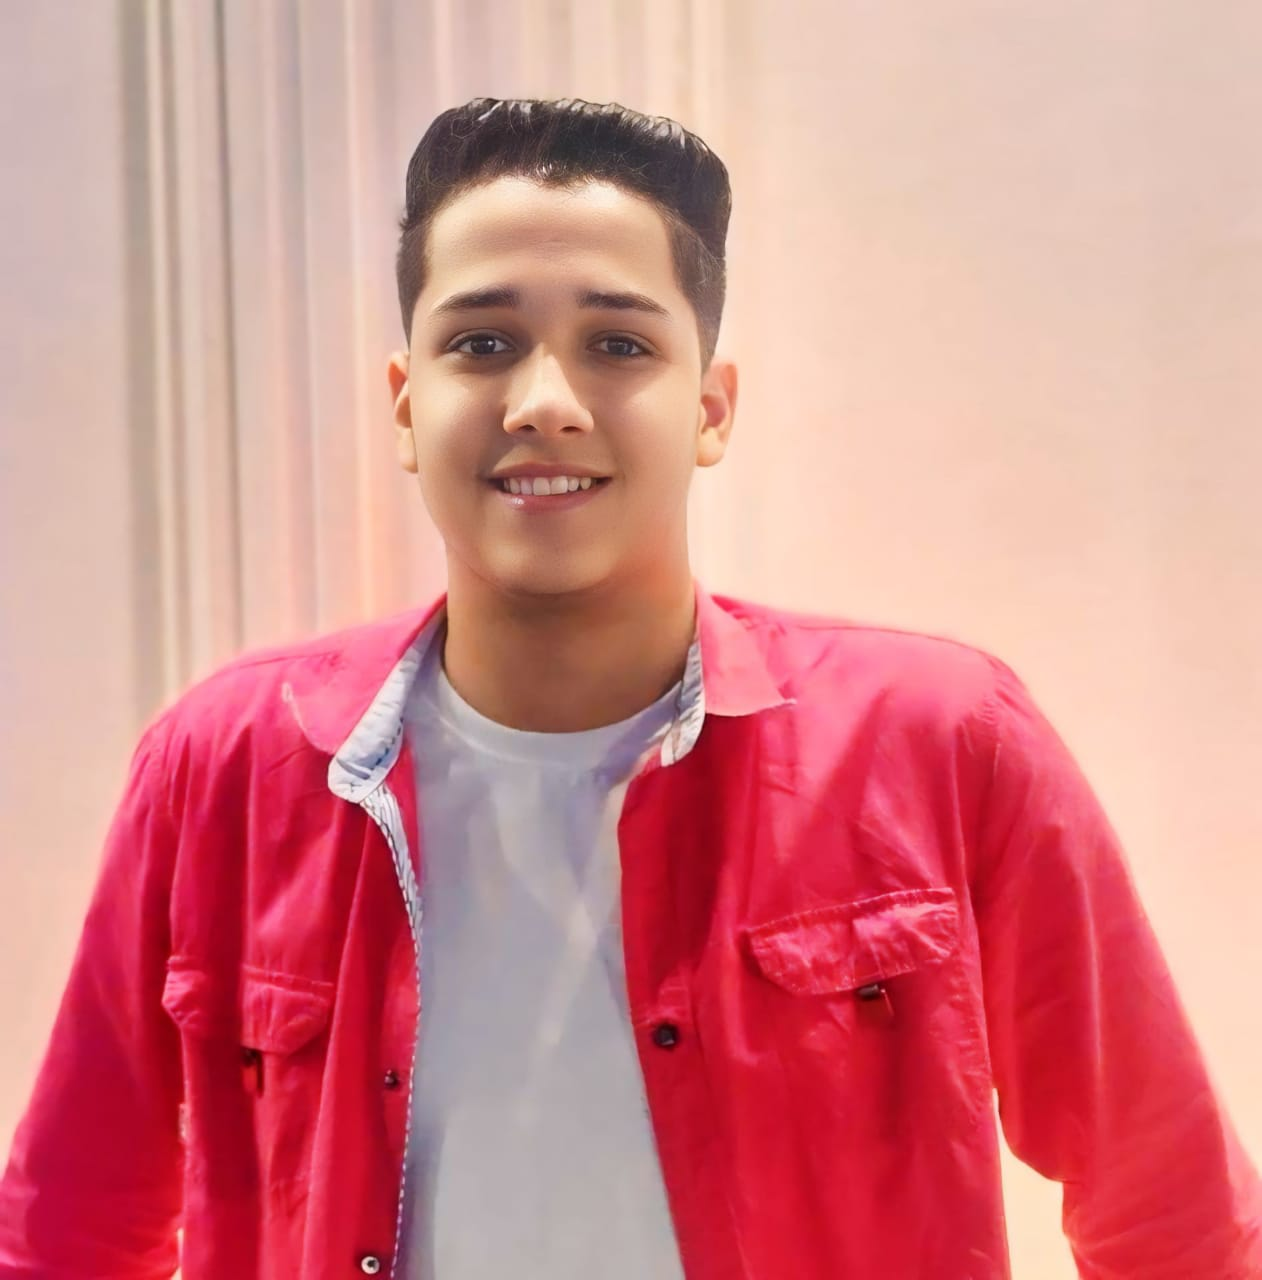
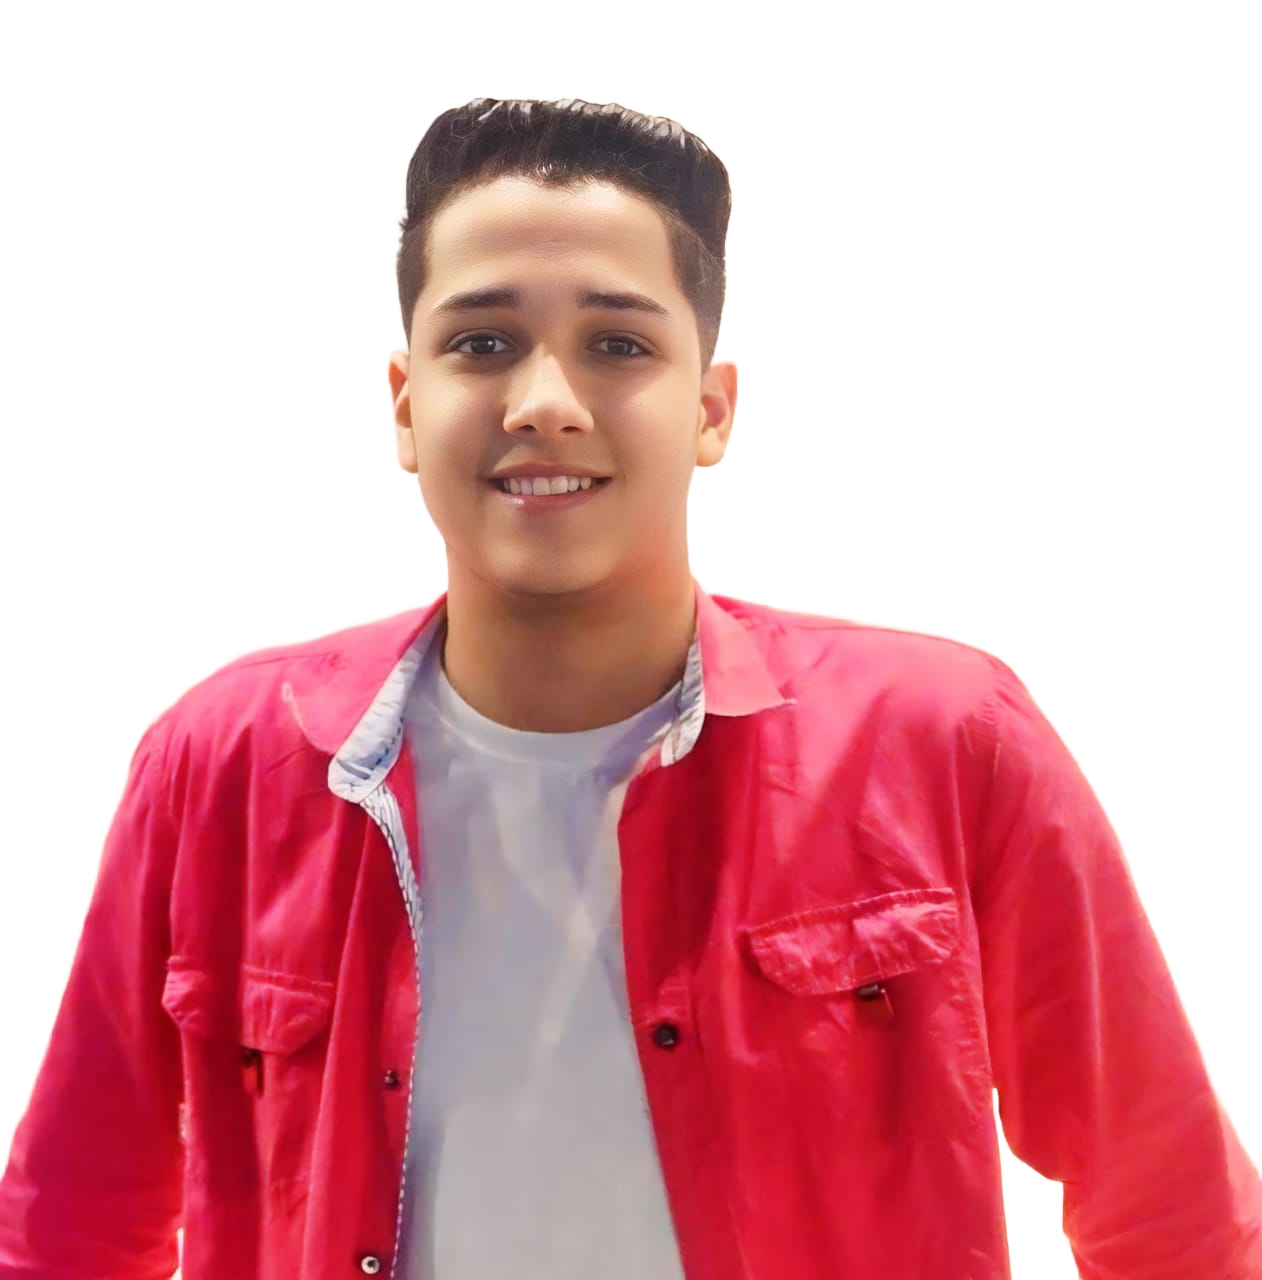
update image

diff --git a/css/leon.css b/css/leon.css
@@ -47,7 +47,7 @@ body{
     margin: 0;
 }
 .special-heading + p {
-    margin: -30px 0 0;
+    /* margin: -30px 0 0; */
     font-size: 20px;
     text-align: center;
     color: #979797;
@@ -55,9 +55,6 @@ body{
 @media (max-width:767px) {
     .special-heading{
         font-size:60px;
-    }
-    .special-heading + p{
-        margin: -20px 0 0;
     }
 }
 .parent{
@@ -354,8 +351,8 @@ body{
     .about .about-content .image img{
         width: calc(330px - 60px);
         height: calc(330px - 70px);
-        box-shadow: 0 0 20px 10px #10cab7 ;
-    }
+/*         box-shadow: 0 0 20px 10px #10cab7 ;
+ */    }
     .about .about-content .image::after{
         display: none;
     }
@@ -373,10 +370,13 @@ body{
     width: 330px;
     height: 330px;
     z-index: 5;
+    
 }
 .about .about-content .image img{
     max-width: 100%;
-    box-shadow: 0 0 20px 3px #10cab7 ;
+    /* border-radius: 50%; */
+    /* background-color: #0f897d; */
+    /* box-shadow: 0 0 20px 3px #10cab7 ; */
 }
 .about .about-content .image::before{
     position: absolute;
